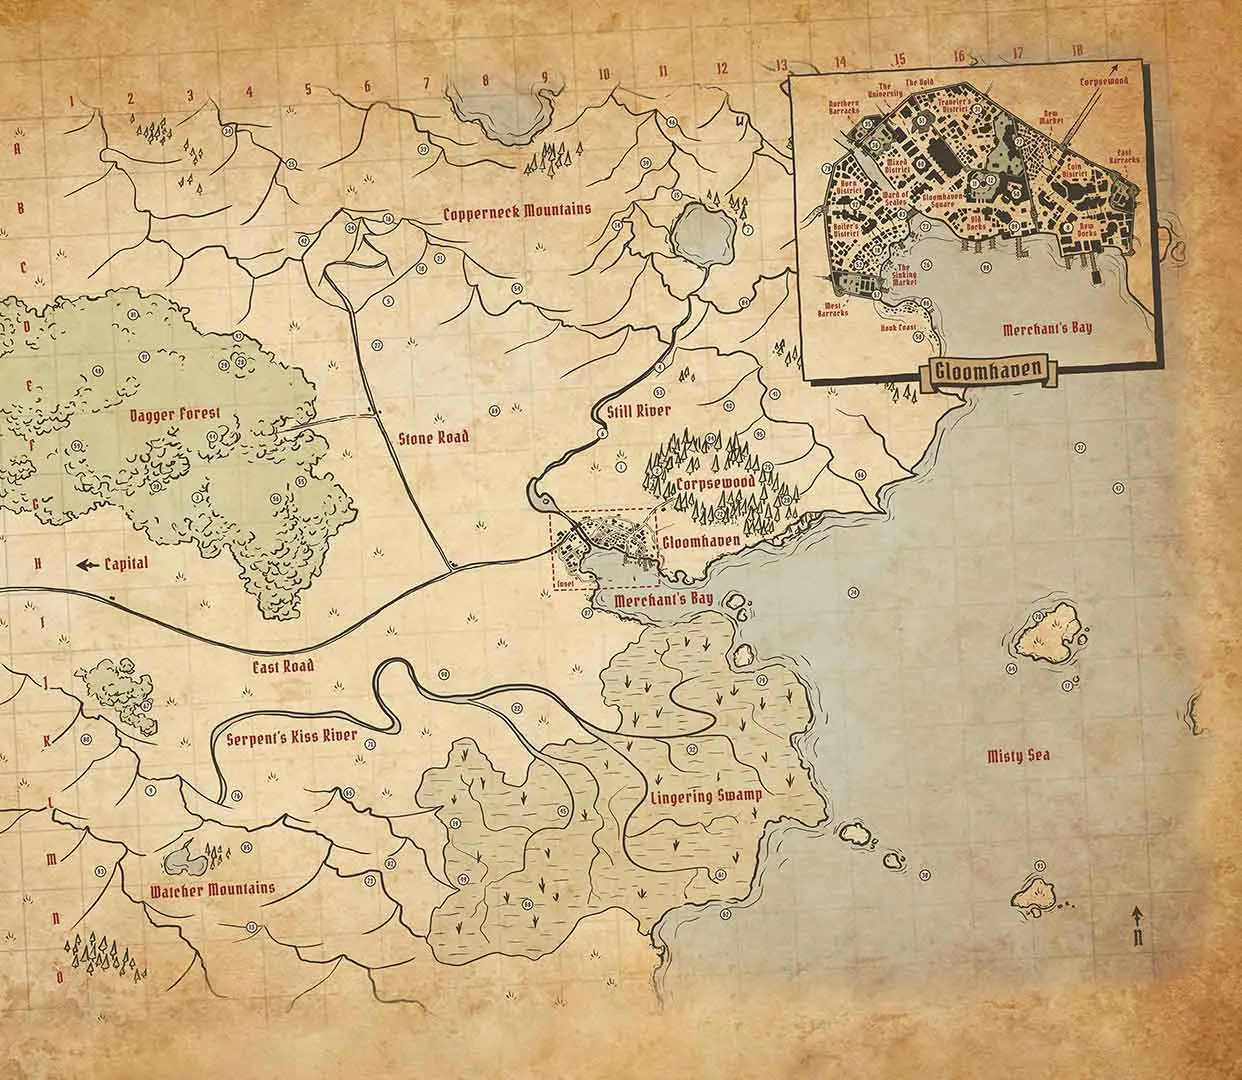
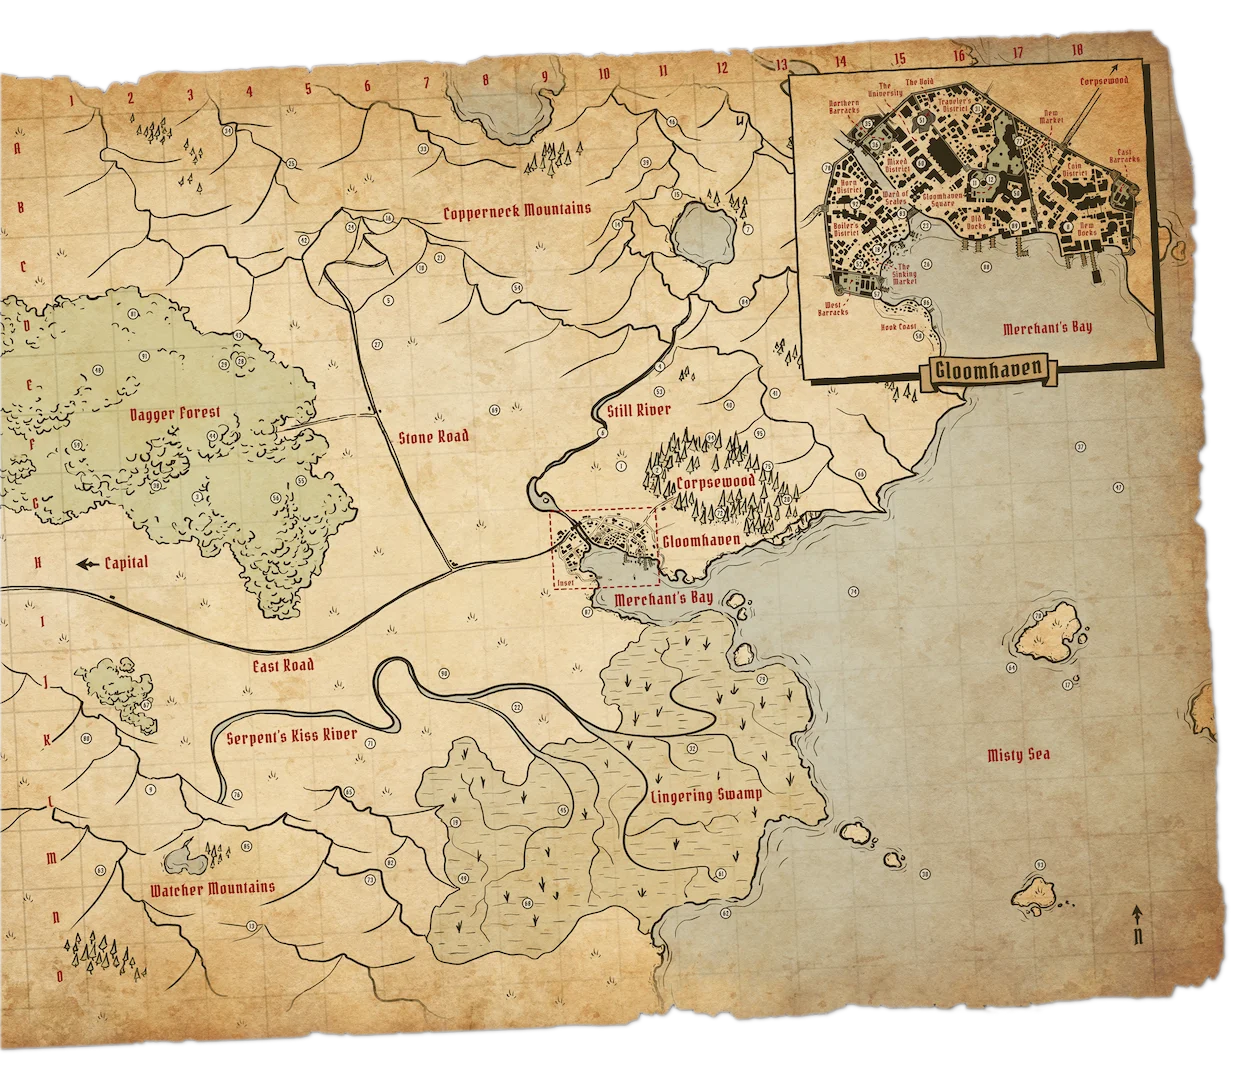
new map with transparent background.

diff --git a/resources/js/components/pages/Map.vue b/resources/js/components/pages/Map.vue
@@ -4,8 +4,8 @@
               highres="/img/map-background-highres.jpg"
               alt="Gloomhaven map background" class="fixed"/>
         <div id="map">
-            <webp src="/img/map-lowres.jpg"
-                  highres="/img/map-highres.jpg"
+            <webp src="/img/map-lowres.gif"
+                  highres="/img/map-highres.png"
                   alt="Gloomhaven map"
                   class="w-full h-full"/>
             <template v-if="scenarios">
